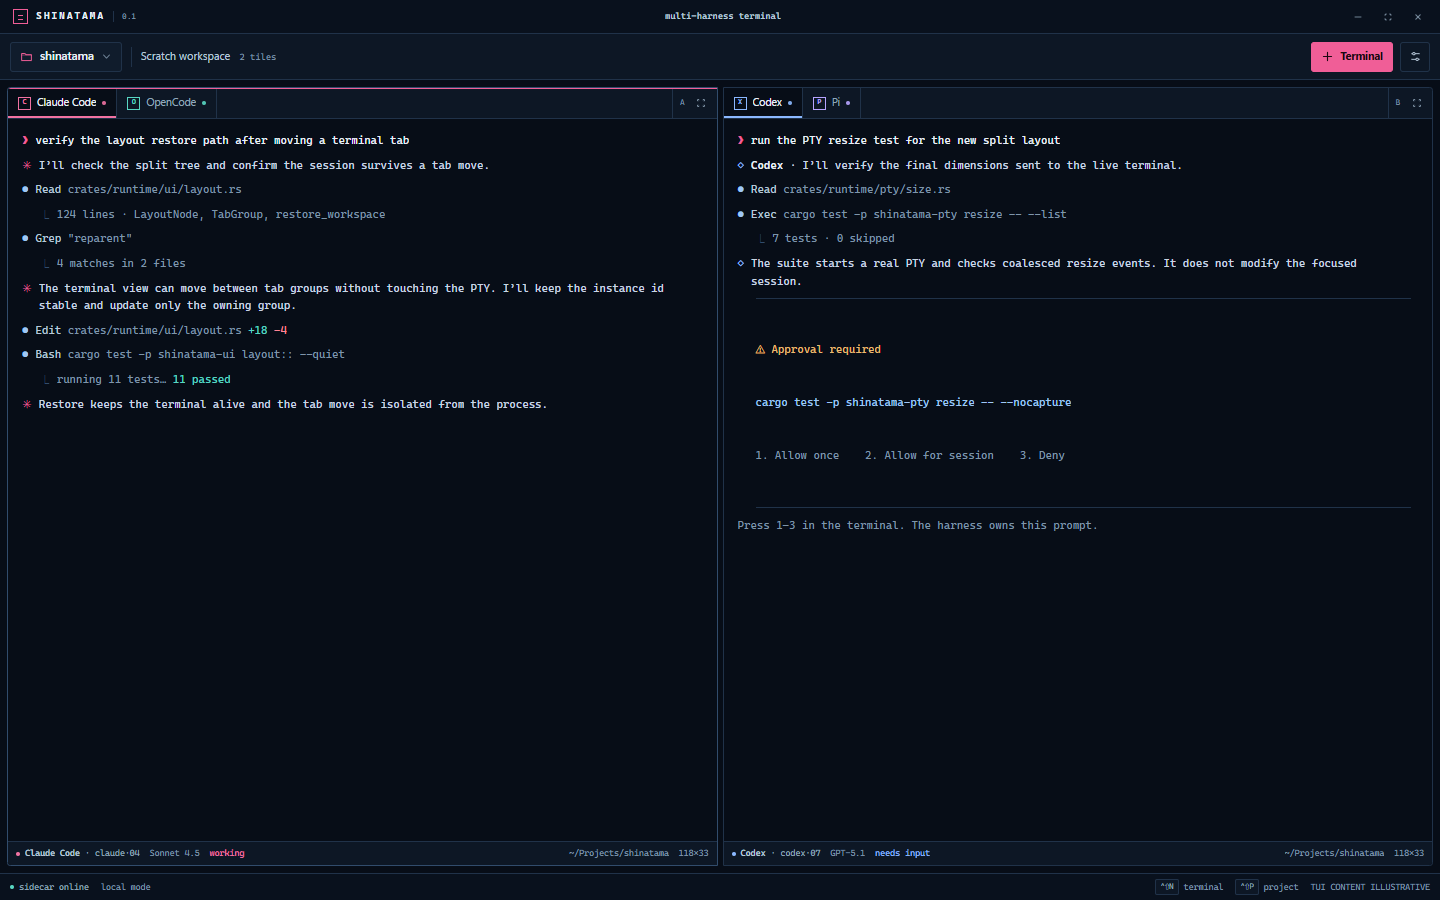
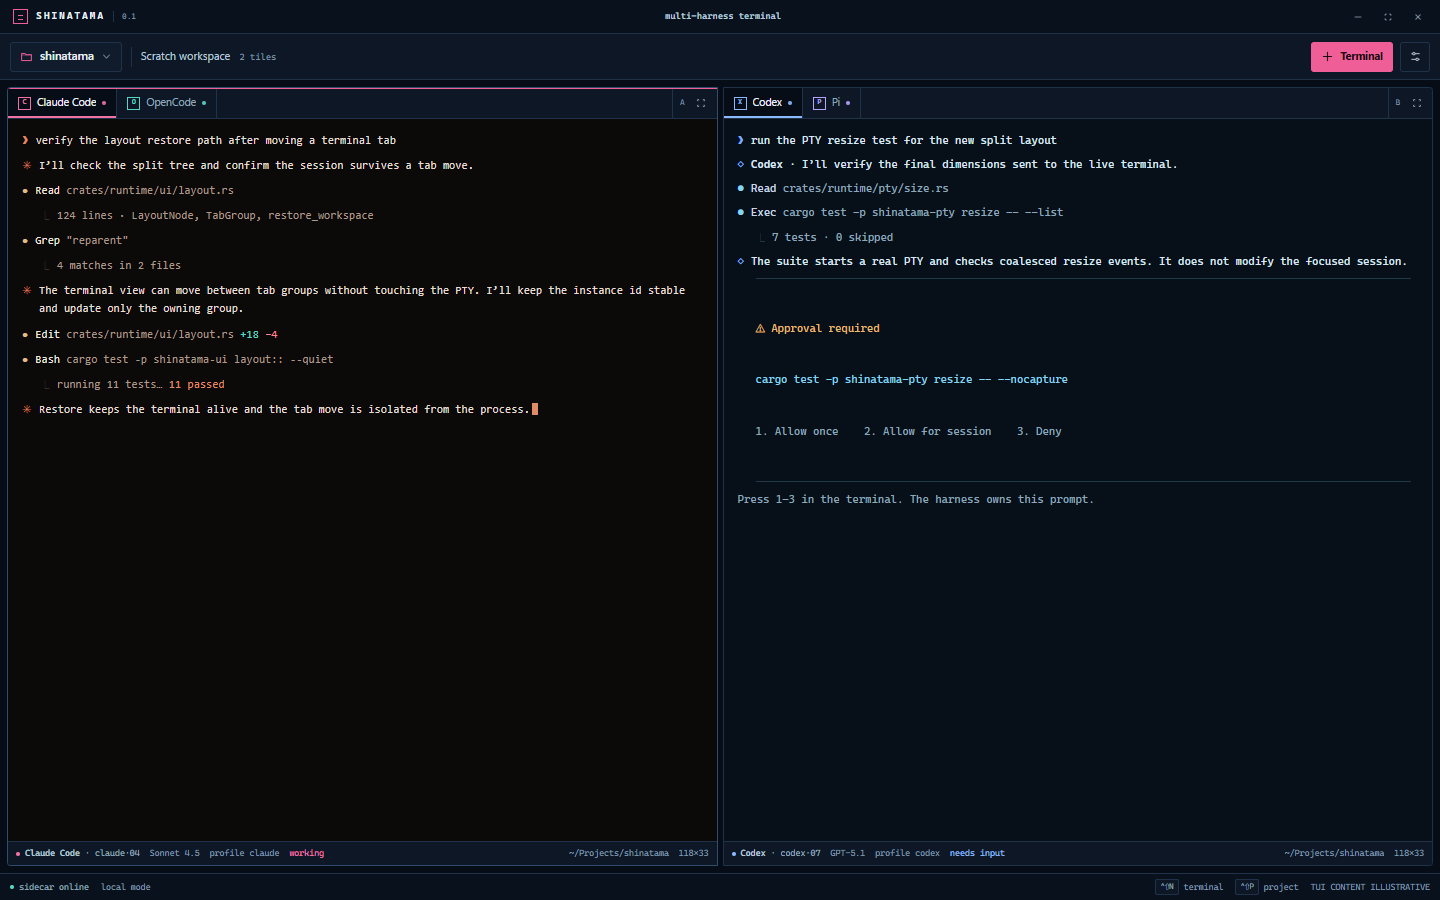
Define per-harness terminal profiles

diff --git a/docs/mockups/workspace-lite.html b/docs/mockups/workspace-lite.html
@@ -326,62 +326,125 @@
   .tile-view[hidden] { display: none; }
 
   .terminal {
+    --term-bg: var(--terminal);
+    --term-fg: #c8d6e4;
+    --term-dim: var(--dim);
+    --term-accent: var(--accent);
+    --term-tool: var(--tool);
+    --term-name: var(--text-2);
+    --term-border: var(--line);
+    --term-warn: var(--amber);
+    --term-add: var(--cyan);
+    --term-del: var(--red);
+    --term-faint: #5f7387;
+    --term-font: var(--font-mono);
+    --term-size: 11px;
+    --term-tracking: 0;
     min-width: 0; min-height: 0;
     overflow: auto;
     padding: 13px 14px 16px;
     outline: none;
-    background: var(--terminal);
-    color: #c8d6e4;
-    font-family: var(--font-mono);
-    font-size: 11px;
+    background: var(--term-bg);
+    color: var(--term-fg);
+    font-family: var(--term-font);
+    font-size: var(--term-size);
+    letter-spacing: var(--term-tracking);
     line-height: 1.6;
     scrollbar-gutter: stable;
   }
-  .terminal:focus-visible { outline: 1px solid var(--accent-soft); outline-offset: -2px; }
+  .terminal:focus-visible { outline: 1px solid var(--term-accent); outline-offset: -2px; }
   .terminal p { margin: 0 0 7px; white-space: pre-wrap; overflow-wrap: anywhere; }
   .terminal p:last-child { margin-bottom: 0; }
-  .t-user { display: flex; align-items: flex-start; gap: 7px; color: var(--dim); }
-  .t-user .prompt { color: var(--accent); font-weight: 700; flex: 0 0 auto; }
-  .t-user .text { color: var(--text); }
+  .t-user { display: flex; align-items: flex-start; gap: 7px; color: var(--term-dim); }
+  .t-user .prompt { color: var(--term-accent); font-weight: 700; flex: 0 0 auto; }
+  .t-user .text { color: var(--term-fg); }
   .t-agent { display: flex; align-items: flex-start; gap: 7px; }
-  .t-agent .spark { flex: 0 0 auto; color: var(--agent, var(--accent)); }
+  .t-agent .spark { flex: 0 0 auto; color: var(--term-accent); }
   .t-agent .body { min-width: 0; }
-  .t-agent strong { color: var(--text); font-weight: 600; }
-  .t-tool { display: flex; align-items: flex-start; gap: 7px; color: var(--muted); }
-  .t-tool .mark { flex: 0 0 auto; color: var(--tool); }
-  .t-tool .name { color: var(--text-2); }
-  .t-tool .arg { color: var(--dim); }
-  .t-result { display: flex; gap: 7px; padding-left: 18px; color: var(--dim); }
-  .t-result .branch { color: var(--line-strong); flex: 0 0 auto; }
-  .t-add { color: var(--cyan); }
-  .t-del { color: var(--red); }
-  .t-dim { color: var(--dim); }
-  .t-faint { color: #5f7387; }
-  .t-cyan { color: var(--cyan); }
-  .t-blue { color: var(--tool); }
-  .t-pink { color: var(--accent-soft); }
+  .t-agent strong { color: var(--term-fg); font-weight: 600; }
+  .t-tool { display: flex; align-items: flex-start; gap: 7px; color: var(--term-dim); }
+  .t-tool .mark { flex: 0 0 auto; color: var(--term-tool); }
+  .t-tool .name { color: var(--term-name); }
+  .t-tool .arg { color: var(--term-dim); }
+  .t-result { display: flex; gap: 7px; padding-left: 18px; color: var(--term-dim); }
+  .t-result .branch { color: var(--term-border); flex: 0 0 auto; }
+  .t-add { color: var(--term-add); }
+  .t-del { color: var(--term-del); }
+  .t-dim { color: var(--term-dim); }
+  .t-faint { color: var(--term-faint); }
+  .t-cyan { color: var(--term-accent); }
+  .t-blue { color: var(--term-tool); }
+  .t-pink { color: var(--term-accent); }
   .cursor {
     display: inline-block; width: 6px; height: 12px; margin-left: 2px;
-    background: var(--accent); vertical-align: -2px;
+    background: var(--term-accent); vertical-align: -2px;
     animation: caret 1.1s steps(1) infinite;
   }
   @keyframes caret { 0%, 44% { opacity: 1; } 45%, 100% { opacity: 0; } }
   @media (prefers-reduced-motion: reduce) { .cursor { animation: none; } }
-  .claude-terminal { --agent: var(--claude); }
-  .codex-terminal { --agent: var(--codex); }
-  .opencode-terminal { --agent: var(--opencode); }
-  .pi-terminal { --agent: var(--pi); }
+
+  /* Each harness carries its own terminal presentation profile. */
+  .claude-terminal {
+    --agent: var(--claude);
+    --term-bg: #0c0a09;
+    --term-fg: #e7ded6;
+    --term-dim: #ab998c;
+    --term-accent: #e08a66;
+    --term-tool: #e4b98b;
+    --term-name: #f0e6de;
+    --term-border: #3b2c24;
+    --term-warn: #e8bb72;
+    --term-font: "Consolas", "Cascadia Mono", monospace;
+    --term-size: 11.3px;
+  }
+  .codex-terminal {
+    --agent: var(--codex);
+    --term-bg: #071019;
+    --term-fg: #dbe8f3;
+    --term-dim: #8ea7bb;
+    --term-accent: #7fa9ff;
+    --term-tool: #87d4ef;
+    --term-name: #c7d9e8;
+    --term-border: #22384b;
+    --term-font: "Cascadia Mono", Consolas, monospace;
+    --term-size: 10.7px;
+    --term-tracking: .01em;
+  }
+  .opencode-terminal {
+    --agent: var(--opencode);
+    --term-bg: #07110e;
+    --term-fg: #d5e8e3;
+    --term-dim: #84a69f;
+    --term-accent: #63d8c5;
+    --term-tool: #b1e2d5;
+    --term-name: #cbe6df;
+    --term-border: #233b36;
+    --term-font: "Lucida Console", "Cascadia Mono", monospace;
+    --term-size: 11px;
+  }
+  .pi-terminal {
+    --agent: var(--pi);
+    --term-bg: #0d0b14;
+    --term-fg: #e4def0;
+    --term-dim: #a29cb4;
+    --term-accent: #b7a4ff;
+    --term-tool: #d3c8ff;
+    --term-name: #dcd4ec;
+    --term-border: #332d45;
+    --term-font: "Cascadia Code", "Cascadia Mono", Consolas, monospace;
+    --term-size: 10.9px;
+  }
 
   .tui-approval {
     margin: 8px 0 9px 18px;
     padding: 7px 0;
-    border-top: 1px solid var(--line);
-    border-bottom: 1px solid var(--line);
-    color: var(--text-2);
+    border-top: 1px solid var(--term-border);
+    border-bottom: 1px solid var(--term-border);
+    color: var(--term-fg);
     white-space: pre-wrap;
   }
-  .tui-approval .tui-title { color: var(--amber); }
-  .tui-approval .tui-command { color: var(--tool); }
+  .tui-approval .tui-title { color: var(--term-warn); }
+  .tui-approval .tui-command { color: var(--term-tool); }
 
   .terminal-status {
     min-width: 0;
@@ -399,6 +462,7 @@
   .terminal-status .status-agent b { color: var(--text-2); font-weight: 500; }
   .terminal-status .spring { flex: 1; }
   .terminal-status .state { color: var(--agent, var(--muted)); }
+  .terminal-status .profile-name { color: var(--dim); }
   .terminal-status .path { min-width: 0; overflow: hidden; text-overflow: ellipsis; }
   .terminal-status .size { color: var(--dim); }
 
@@ -481,7 +545,7 @@
     .toolbar-button.primary .button-label { display: none; }
     .material { display: none; }
     .harness-tab { max-width: 128px; padding: 0 8px; }
-    .terminal-status .path { display: none; }
+    .terminal-status .path, .terminal-status .profile-name { display: none; }
     .board { grid-template-columns: minmax(0, 1fr) 5px minmax(0, 1fr); padding: 6px; }
   }
 </style>
@@ -616,6 +680,7 @@
           <div class="terminal-status" style="--agent:var(--claude)">
             <span class="status-agent"><span class="dot"></span><b>Claude Code</b> · claude·04</span>
             <span>Sonnet 4.5</span>
+            <span class="profile-name">profile claude</span>
             <span class="state">working</span>
             <span class="spring"></span>
             <span class="path current-path">~/Projects/shinatama</span>
@@ -636,6 +701,7 @@
           <div class="terminal-status" style="--agent:var(--opencode)">
             <span class="status-agent"><span class="dot"></span><b>OpenCode</b> · opencode·02</span>
             <span>local</span>
+            <span class="profile-name">profile opencode</span>
             <span class="state">idle</span>
             <span class="spring"></span>
             <span class="path current-path">~/Projects/shinatama</span>
@@ -683,6 +749,7 @@
           <div class="terminal-status" style="--agent:var(--codex)">
             <span class="status-agent"><span class="dot"></span><b>Codex</b> · codex·07</span>
             <span>GPT-5.1</span>
+            <span class="profile-name">profile codex</span>
             <span class="state">needs input</span>
             <span class="spring"></span>
             <span class="path current-path">~/Projects/shinatama</span>
@@ -701,6 +768,7 @@
           <div class="terminal-status" style="--agent:var(--pi)">
             <span class="status-agent"><span class="dot"></span><b>Pi</b> · pi·01</span>
             <span>local</span>
+            <span class="profile-name">profile pi</span>
             <span class="state">idle</span>
             <span class="spring"></span>
             <span class="path current-path">~/Projects/shinatama</span>
@@ -1050,6 +1118,7 @@
         <div class="terminal-status" style="--agent:var(--${harness})">
           <span class="status-agent"><span class="dot"></span><b>${config.name}</b> · ${harness}·new</span>
           <span>${config.model}</span>
+          <span class="profile-name">profile ${harness}</span>
           <span class="state">ready</span>
           <span class="spring"></span>
           <span class="path current-path">${activeProjectPath}</span>

diff --git a/docs/functional-design.md b/docs/functional-design.md
@@ -172,8 +172,10 @@ draws around and over it:
 - **Windows over the agent:** the hop dialog (`^H`), the Daodan palette (`^K`) and
   find. Native overlays leave the emulator screen intact and restore focus to the
   originating pane when dismissed.
-- **Skin colours inside the pane:** the agent's standard 16-colour palette is remapped
-  to the skin's palette, so the Shinatama pink reaches the agent's own output.
+- **Terminal presentation inside the pane:** each view uses its harness's terminal
+  profile (font, metrics, ANSI palette and cursor), so the agent keeps its own
+  visual identity. Chrome uses the active skin. An explicit follow-skin option
+  may remap the default and 16-colour ANSI palette; it never rewrites truecolour.
 
 What stays the agent's: the text it draws (tables, tool calls, reasoning, choices) and
 any colour it picks at 24-bit. Not yet verified, to be proved by the first milestone:
@@ -346,10 +348,15 @@ from a skin definition, never hard-coded.
 - **TCTF:** steel grey with orange, cut corners, filled active tab.
 - **Sumi:** ink black with vermilion.
 
-In the native UI a skin controls colours, typography, borders and panel states;
-terminal palette remapping stays separate. Effects seen in the HTML
-mockups (scan lines, clipped corners, glow) illustrate the mood and are not
-requirements.
+In the native UI a skin controls the chrome: window, menus, tabs, side panels,
+UI typography, borders and panel states. Agent terminals use separate terminal
+profiles: each harness has a default monospace font and metrics, ANSI palette,
+default foreground/background and cursor. The profile gives the harness a
+stable identity inside its pane; it does not replace or reinterpret the TUI.
+A user may opt into **follow Shinatama skin**, which remaps only the default and
+16-colour ANSI palette. Truecolour output chosen by the harness remains
+untouched. Effects seen in the HTML mockups (scan lines, clipped corners, glow)
+illustrate the mood and are not requirements.
 
 The references are *Oni* (Bungie, 2001) and *Ghost in the Shell*; the user's wider
 Daodan/Shinatama family shares that world. The colour values in the mockups are
@@ -680,6 +687,11 @@ leaves. Side panes are resizable and collapsible. Earlier terminal/HTML mockups
 are interaction references, not binding implementation choices. Toolkit selection
 and exact shortcuts remain builder proposals.
 
+**Initial terminal-first scope (2026-10-30):** project selector, resizable terminal
+tiles, leaf tab groups and per-harness terminal profiles. Git integration, file
+navigator, diffs, thread side panes, hop and Daodan surfaces are not part of this
+first UI. The rest of this section specifies later workspace surfaces.
+
 **Interactions and lifecycle:**
 
 - Drag splitters to resize; drag tabs to reorder, move between groups or create
@@ -701,11 +713,20 @@ and exact shortcuts remain builder proposals.
 
 | Surface | Behaviour / boundary |
 | --- | --- |
-| Agent terminal | Real PTY/emulator, resize, selection, scrollback and focus isolation; multiple agents visible together. |
+| Agent terminal | Real PTY/emulator, resize, selection, scrollback and focus isolation; multiple agents visible together. Each view uses its harness's terminal profile (font, cell metrics, ANSI palette); Shinatama chrome keeps the active skin. |
 | File navigator | Project tree, search and explicit open in a tab/pane; no implicit execution or arbitrary-root access. |
 | Markdown | Rendered reading, source editing and source/preview split. Direct visual editing is requested but gated by editor/syntax fidelity checks before delivery. |
 | File/document preview | Supported text/image artifacts. DOCX reading needs a separate renderer and declared fidelity; DOCX editing/full Office support is not implied. |
 | Browser / integrated apps | Static previews fit 5.15. Interactive embedded browsing and mini-app hosting need separate design/security gates; JanuraCode app compatibility is not assumed. |
+
+**Terminal presentation:** the harness owns what appears inside the PTY: layout,
+glyphs, spacing, prompts, boxes and colours. Shinatama does not redraw those
+widgets or pretend they are native controls. The terminal profile controls only
+what the emulator owns: monospace font and cell metrics, ANSI palette, default
+foreground/background and cursor. If a profile font is unavailable, the terminal
+falls back to the built-in monospace face without changing the PTY session.
+Following the Shinatama skin is an explicit compatibility option, not the
+default.
 
 Editing provides undo/redo, visible dirty state and explicit save. Detect external
 changes, including agent writes: preserve the buffer and offer reload/compare/

diff --git a/docs/technical-design.md b/docs/technical-design.md
@@ -198,6 +198,18 @@ state. PTY reads/parsing, file I/O and previews must not block the UI thread. Bo
 queues/resources and schedule fairly so noisy agents cannot freeze other panes.
 Closing a view does not kill its instance; explicit stop follows runtime cleanup.
 
+**Terminal profiles.** Each terminal view references a versioned harness profile
+with font family and size, cell metrics, cursor style, the 16-colour ANSI palette,
+and default foreground/background. Profiles are presentation data, not layout or
+session identity, and a missing or invalid profile falls back to a built-in
+monospace profile without restarting the PTY. A user-selected **follow skin** mode
+remaps default/ANSI colours only; it must preserve truecolour sequences emitted by
+the harness. Initialise the terminal with the profile before deriving rows/columns.
+Changing font or metrics recomputes cell size and delivers one final resize; the
+emulator must still handle Unicode, wide glyphs, IME input and fallback fonts.
+Bundled fonts and their licences are part of the dependency notice. The harness
+remains the sole owner of TUI layout, text and controls inside the PTY.
+
 **Documents/untrusted content.** Source, preview and future visual editors share a
 buffer revision; ignore stale renders. Save checks the file version against the
 version read and uses safe replacement where supported; retain the buffer on
@@ -215,7 +227,8 @@ select an embedded browser engine.
 panels, Markdown source/preview and file navigation. Verify mouse/keyboard tiling,
 minimum sizes, cancelled drops and corrupt layout recovery; restore without process
 auto-start; stable sessions/output through move/collapse/maximize; final PTY resize,
-focus/paste isolation, scaling and IME/Unicode; concurrent agent writes, dirty close,
+focus/paste isolation, per-profile font fallback and ANSI/truecolour output,
+scaling and IME/Unicode; concurrent agent writes, dirty close,
 save failures and stale renders; hostile Markdown/assets and bounded CPU/memory
 with many noisy panes. Run on macOS/Linux and assumed Windows with actual versions
 and gaps recorded. Browser, DOCX and mini-app gates remain separate. No implemented
